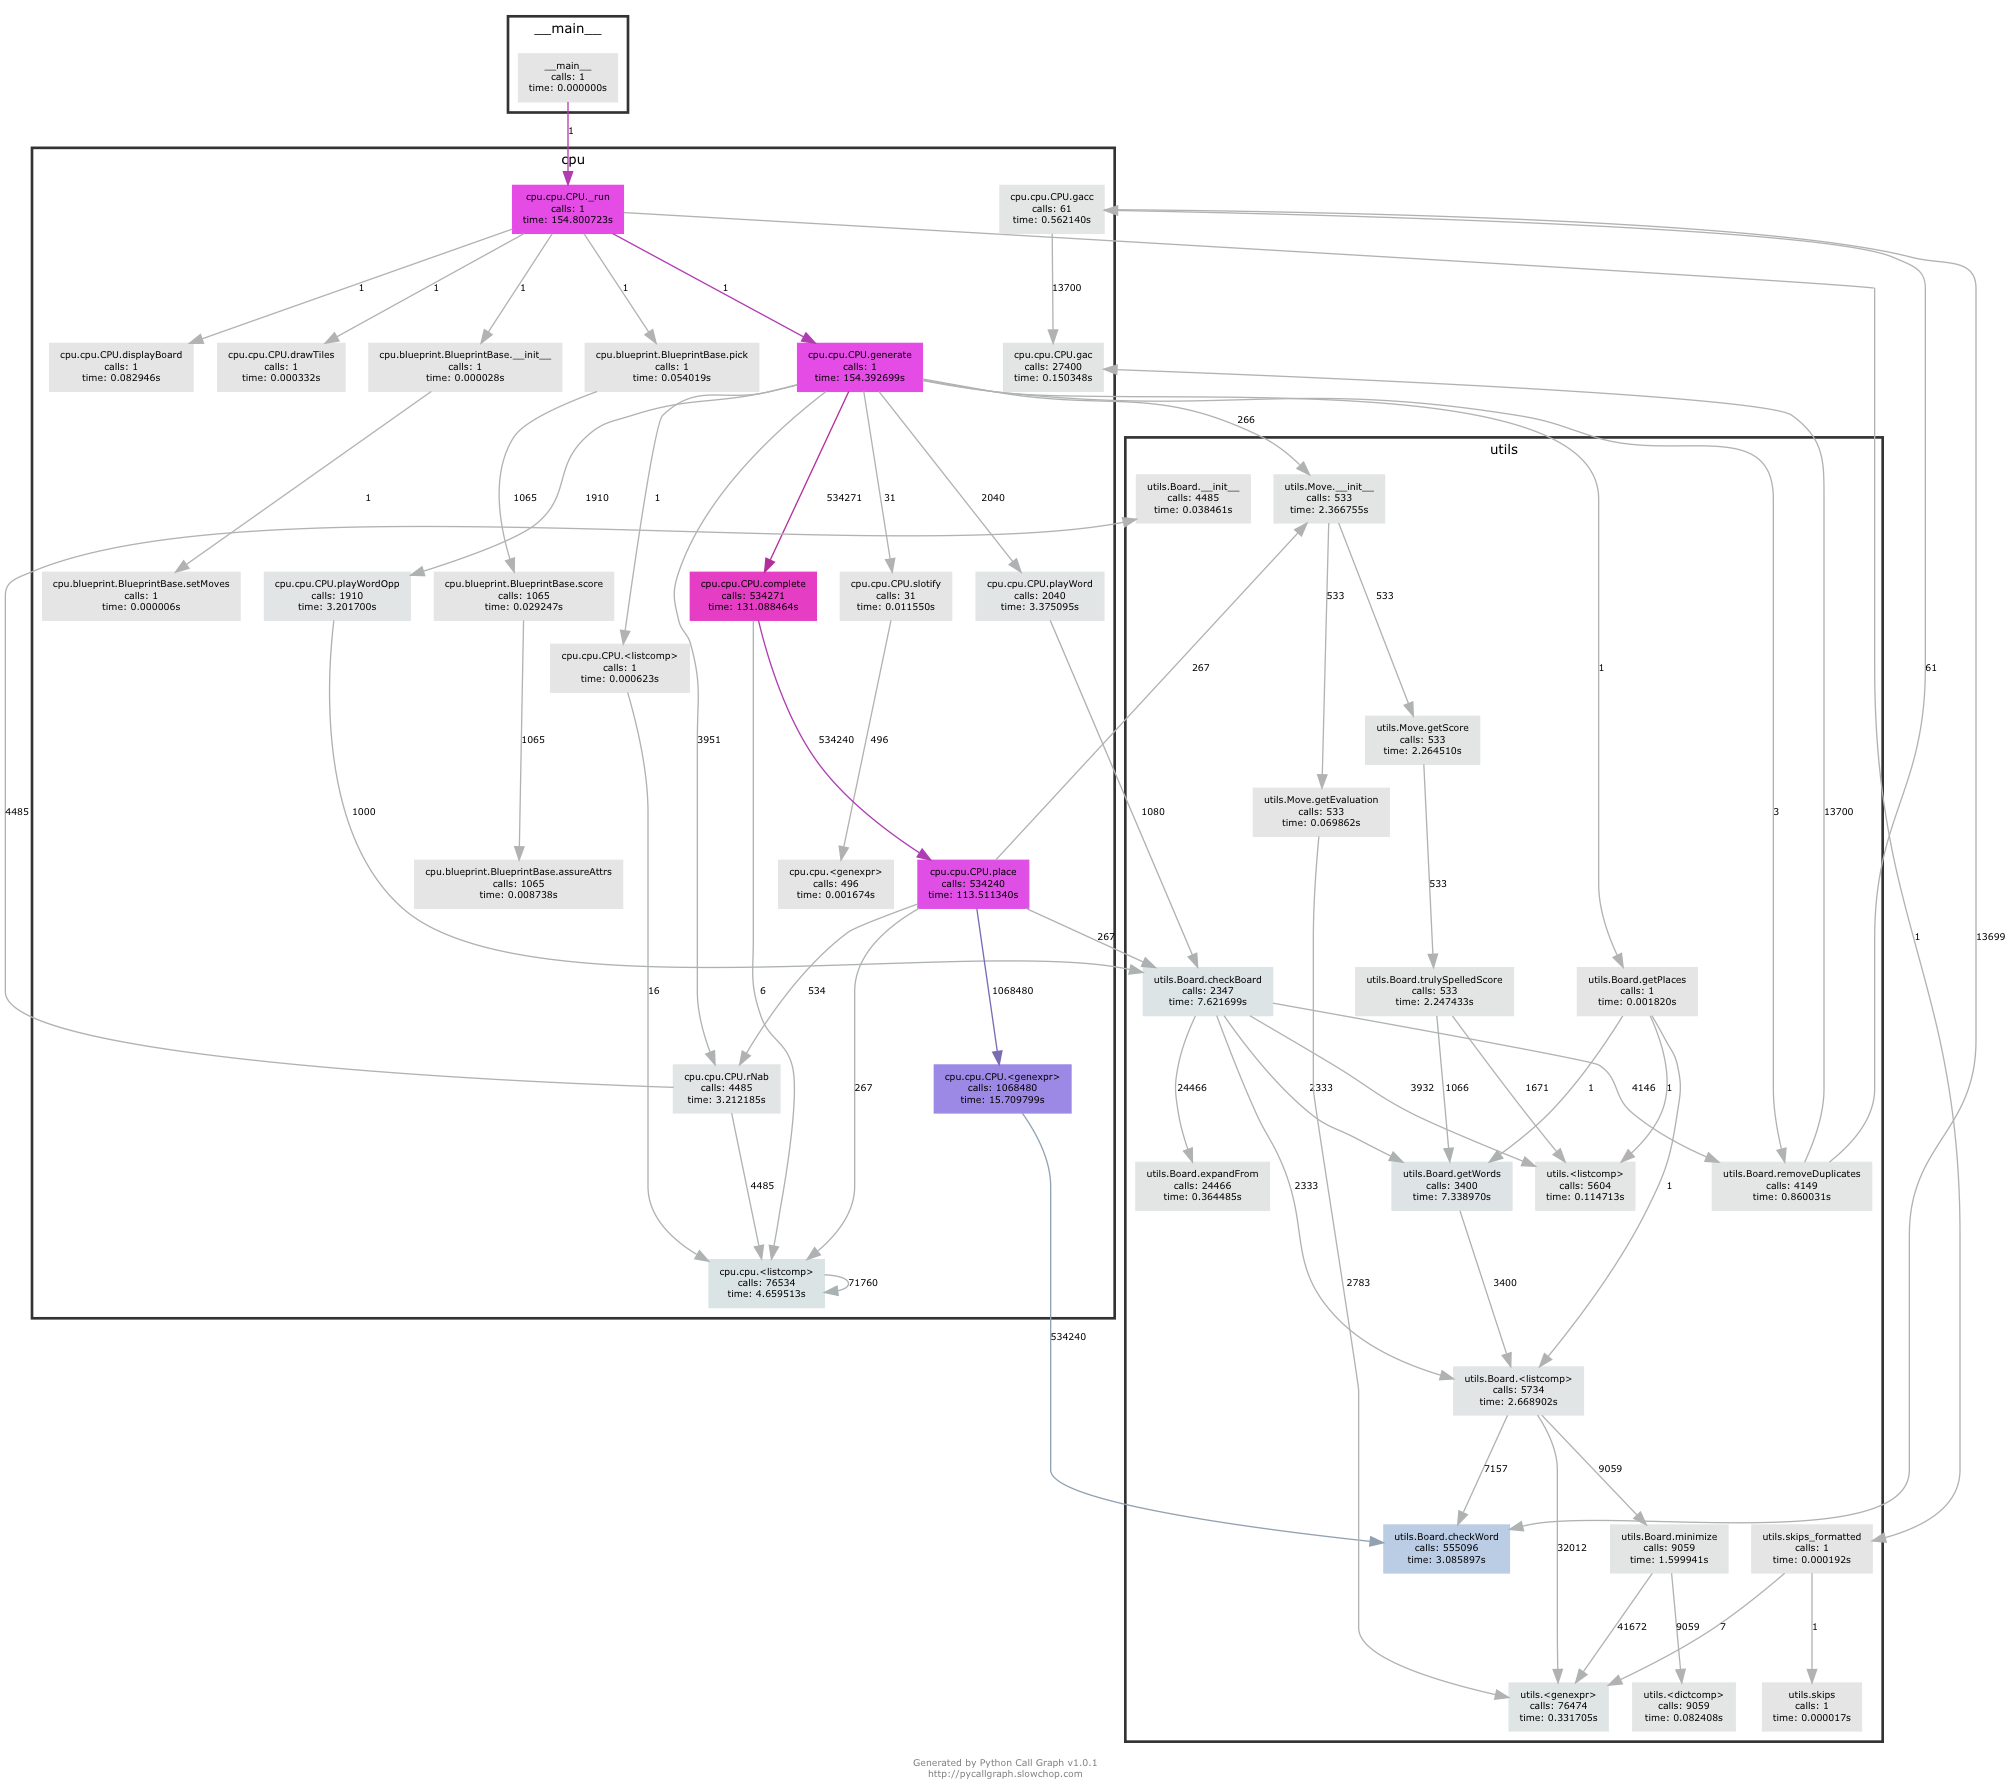
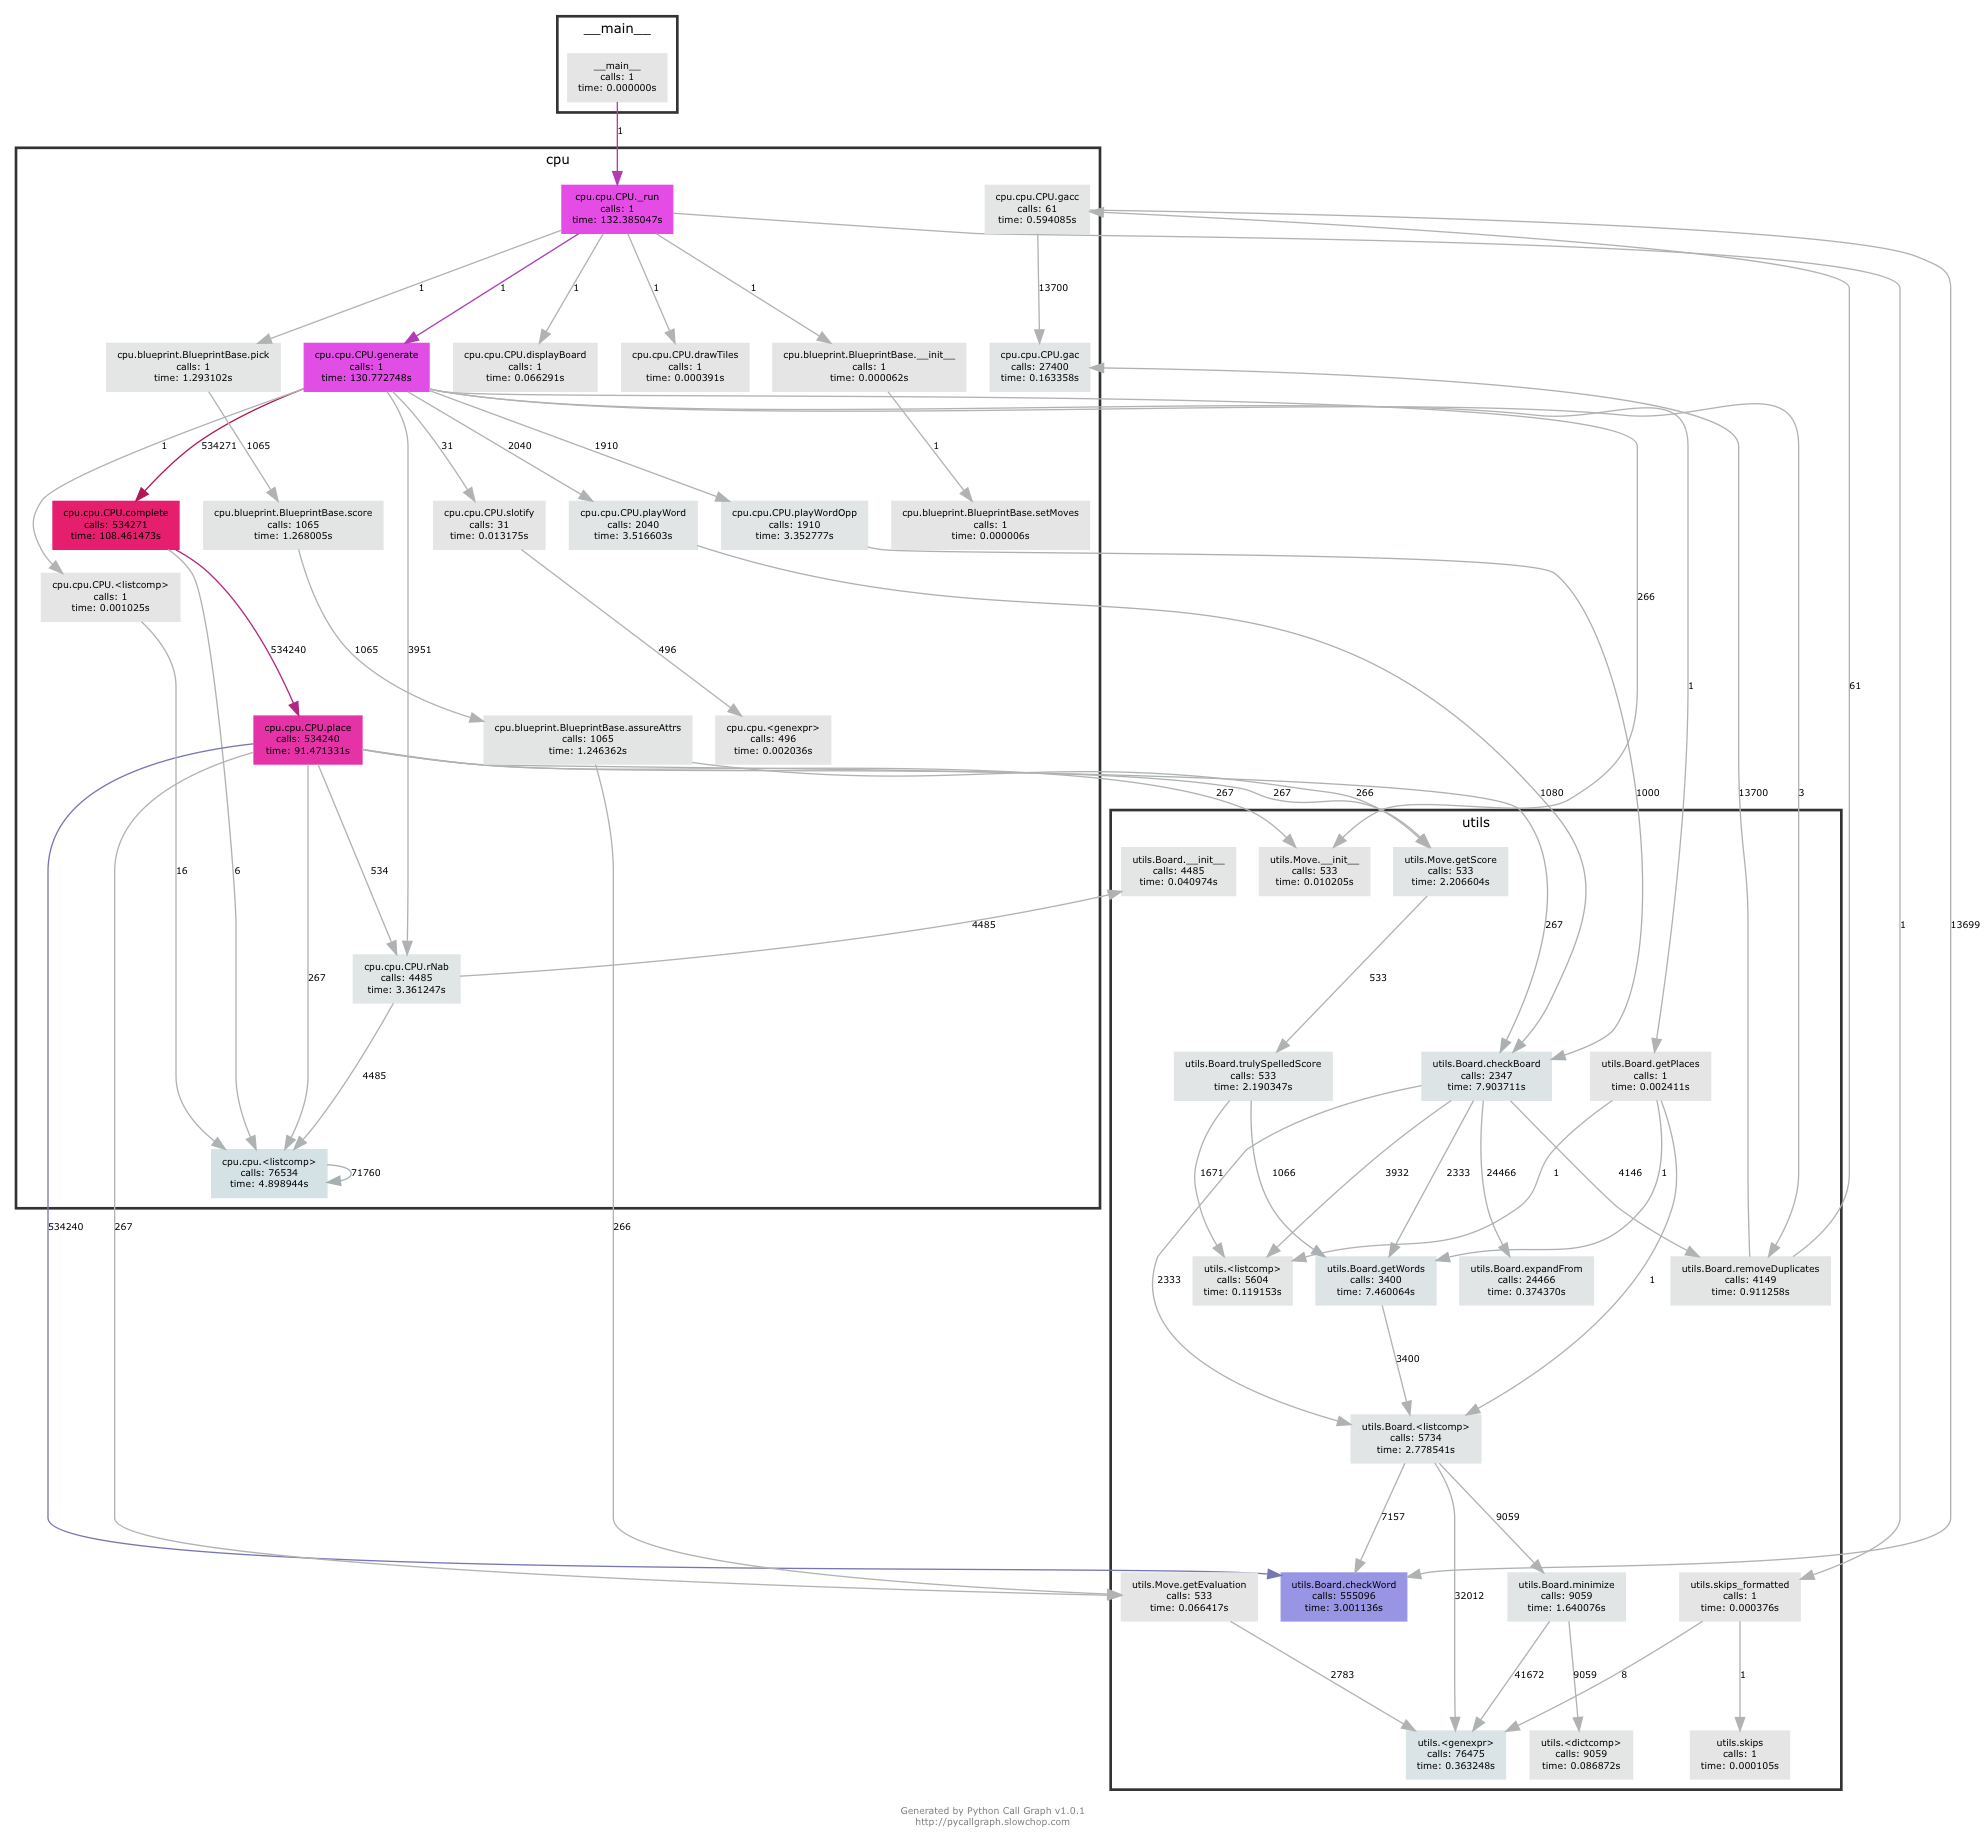
decent efficiency upgrade

diff --git a/cputest.py b/cputest.py
@@ -96,11 +96,11 @@ if __name__ == "__main__":
 ##    c._run()
 ##    for i in range(10):
 ##        c._run()
-##    with PyCallGraph(output=g2):
-##        c._run()
-    cProfile.run('c._run()', 'run.profile')
-    stats = pstats.Stats('run.profile')
-    stats.strip_dirs().sort_stats('time').print_stats(15)
+    with PyCallGraph(output=g2):
+        c._run()
+##    cProfile.run('c._run()', 'run.profile')
+##    stats = pstats.Stats('run.profile')
+##    stats.strip_dirs().sort_stats('time').print_stats(15)
       #fight()
 #[1.7072216619853862, 3.1325161900022067, 1.6216930149821565, 3.268413445999613, 3.705194982991088, 15.889340254012495, 5.688638204999734, 4.1342786839813925, 20.16599447801127, 5.605817347008269, 15.521598959021503, 8.941739761008648, 25.326604697998846, 18.971136287000263, 28.019278490013676, 26.350266034016386, 23.84890027498477, 16.002048529975582, 7.042422533995705, 26.99606496299384, 32.414714958984405, 15.247227340994868, 1.1243990630027838, 3.4754078430123627, 11.673580643022433, 2.6024817819998134, 7.487077052996028, 7.309637408994604, 11.14153193400125, 14.711314640007913, 8.855871091014706, 29.52353919702, 18.273340198997175, 30.2577743739821, 16.94557886000257, 19.052926197997294, 13.73912344200653, 13.845009912998648, 34.1416648819868, 39.3223710609891, 40.41984408602002, 26.62969347499893, 19.51503164198948, 44.1740132959967, 39.12099281800329, 1.2027060329855885, 2.65757844701875, 4.557685183011927, 4.110742001998005, 10.145192698022583, 4.7756191799999215, 4.710683440993307, 13.963426639995305, 13.199134234018857, 26.245197443990037, 33.25656496998272, 22.95353161598905, 30.64343233400723, 16.719950309983687, 30.113948104000883, 17.75676007498987, 13.29482840700075, 27.94027982300031, 11.234770610986743, 19.581611906993203, 15.192255259986268, 49.241733882023254, 0.8161826569994446, 5.454085556004429, 4.969681193004362, 10.928349269001046, 1.5972406709915958, 3.6771177009795792, 5.738978226989275, 6.110980087018106, 12.932388702000026, 10.695273424003972, 21.048558980983216, 32.73511774398503, 13.641970978002064, 13.774489501985954, 14.741290208999999, 13.078035676997388, 29.453492833010387, 57.62879308700212, 11.837178073998075, 11.057494577980833, 27.168097740010126, 0.3975788909883704, 1.4681445810128935, 5.444586767000146, 4.077422722999472, 8.503607852006098, 10.49940709999646, 10.740528668975458, 4.019111391011393, 11.964352468989091, 20.951317258994095, 10.927683763002278, 14.412274879985489, 7.626214646996232, 6.811122585000703, 20.354628455999773, 19.115355746995192, 36.390685473015765, 37.57398434399511, 39.32085073101916, 24.51525673098513, 49.96606025699293, 45.93350953402114, 25.294191809021868]
 #16.773275875188578

diff --git a/cpu/cpu.py b/cpu/cpu.py
@@ -253,13 +253,13 @@ class CPU():
                 index -= 1
             else:
                 slot[newPos] = word[index]
-                if wordPos:
+                if not wordPos:
                     wordPos = currPos+index
             index += 1
         wordPos += 1
         slot = ''.join(slot)
 
-        if not all(self.checkWord(i) for i in slot.strip('.').split('.')):
+        if not all(map(self.checkWord, slot.strip('.').split('.'))):
             return False
 
         newBoardSlot = [reps[index] if newLetter == '.' else newLetter for (index, newLetter) in enumerate(slot)]
